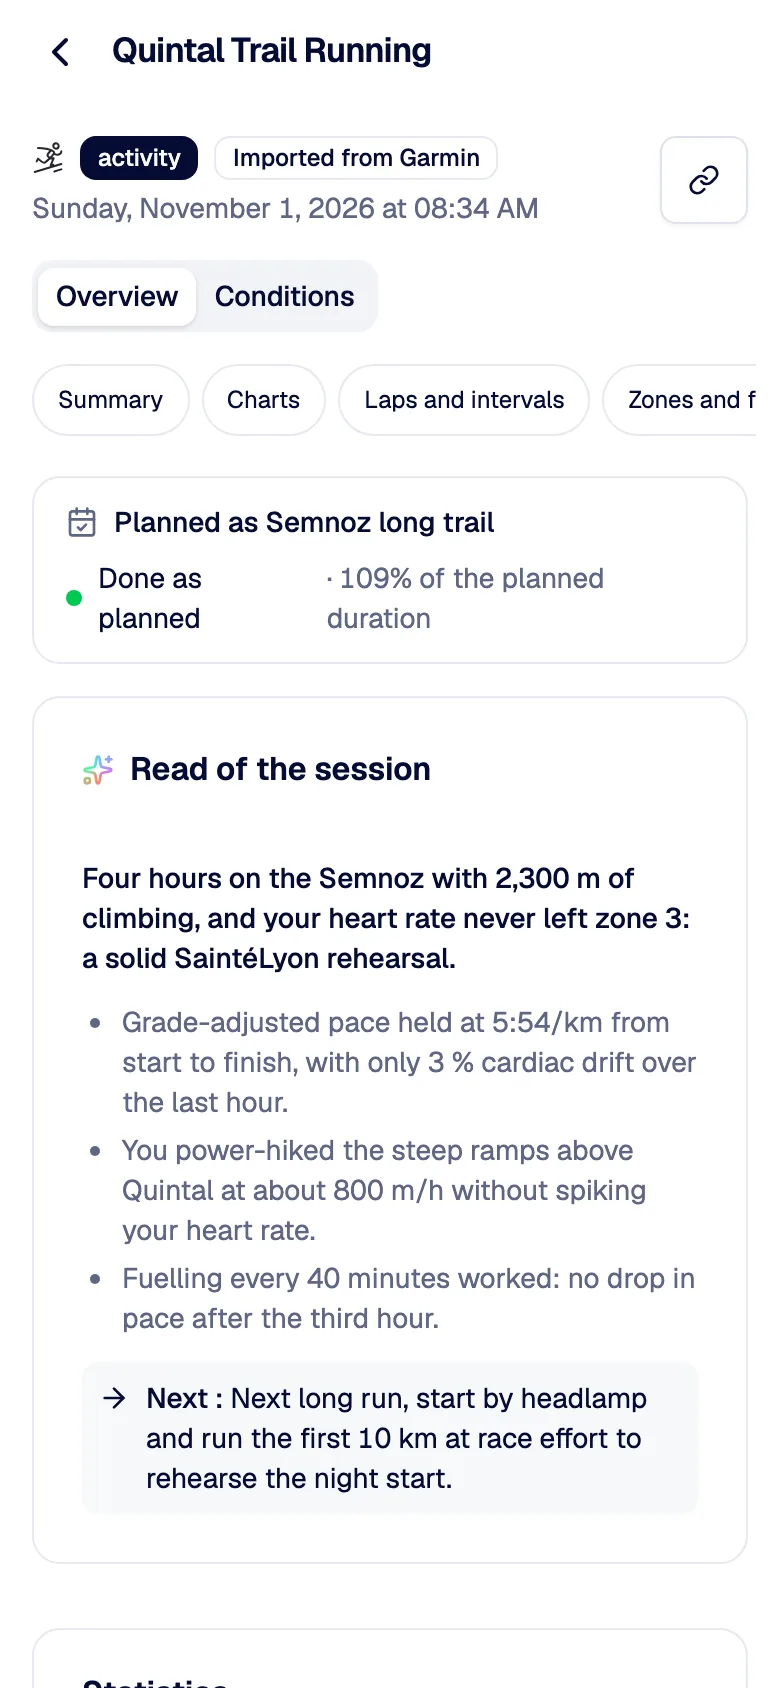
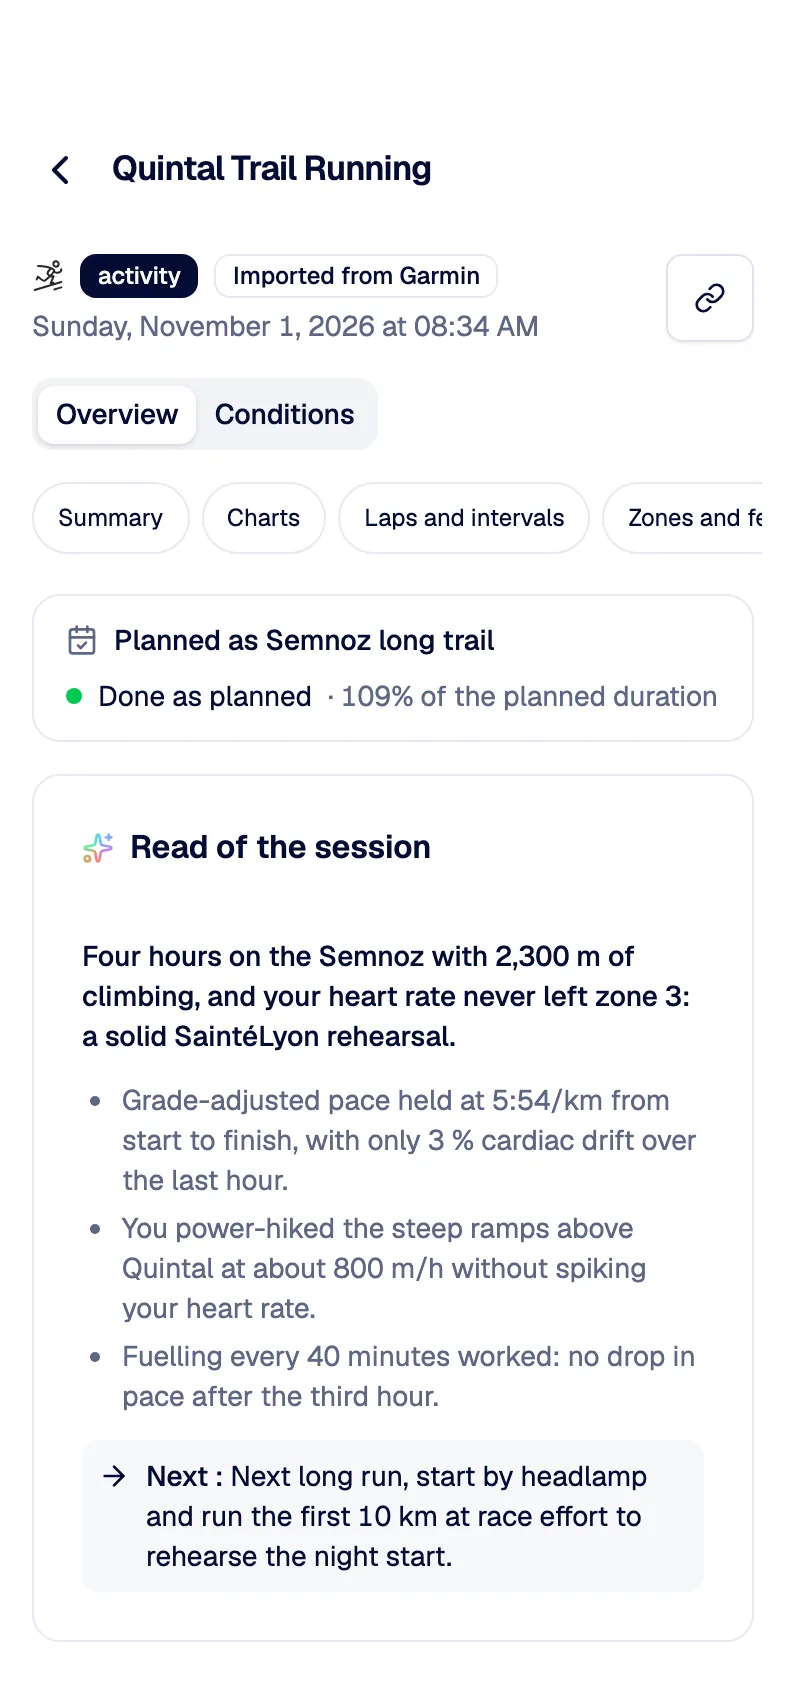
fix(website): frame phone screenshots like a real iPhone
The phone mockups cut the bottom corners of the screens and put the notch
over the app's top bar. Phone captures now include the app's safe areas,
and the frame keeps their exact proportions, with the Dynamic Island, a
status bar and the home indicator drawn over the empty insets. Sizes are
container units of the frame, so it holds at any width, and the pages no
longer force a crop on the images.

diff --git a/apps/website/src/components/site/visuals/screenshot.tsx b/apps/website/src/components/site/visuals/screenshot.tsx
@@ -45,36 +45,111 @@ export function Screenshot({
   );
 }
 
-/** A phone-shaped frame for the mobile screenshots (390 wide at 2x). */
+/**
+ * An iPhone 15 Pro around a phone screenshot. Captures are 393×852 with the
+ * app's safe areas applied (59 px top, 34 px bottom), so the status bar, the
+ * Dynamic Island and the home indicator drawn here sit over empty insets,
+ * never over content. Every size is a share of the width: the frame holds
+ * its proportions at any size.
+ */
 export function PhoneShot({
   src,
   alt,
   className,
   priority,
+  sizes = '320px',
 }: {
   src: StaticImageData | string;
   alt: string;
   className?: string;
   priority?: boolean;
+  sizes?: string;
 }) {
   return (
-    <figure
-      className={cn(
-        'relative rounded-[2.6rem] bg-ink p-[9px] shadow-[0_40px_80px_-30px_rgb(5_12_52/0.55),0_0_0_1px_rgb(255_255_255/0.08)_inset]',
-        className,
-      )}
-    >
-      <div className="overflow-hidden rounded-[2.05rem] bg-white">
-        <Image
-          src={src}
-          alt={alt}
-          priority={priority}
-          sizes="320px"
-          placeholder={typeof src === 'string' ? 'empty' : 'blur'}
-          className="block h-auto w-full"
-        />
+    // cqw resolves against the nearest container: the figure is that
+    // container, so only its children may size themselves in cqw
+    <figure className={cn('relative [container-type:inline-size]', className)}>
+      {/* Titanium edge, then the black bezel */}
+      <div className="rounded-[17cqw] bg-gradient-to-b from-[#3a3f55] via-[#1b1f33] to-[#3a3f55] p-[0.9cqw] shadow-[0_40px_80px_-30px_rgb(5_12_52/0.55)]">
+        <div className="rounded-[16.2cqw] bg-[#05060d] p-[3.6cqw]">
+          <div className="relative aspect-[393/852] overflow-hidden rounded-[12.6cqw] bg-white">
+            <Image
+              src={src}
+              alt={alt}
+              priority={priority}
+              sizes={sizes}
+              placeholder={typeof src === 'string' ? 'empty' : 'blur'}
+              className="absolute inset-0 h-full w-full object-cover object-top"
+            />
+            {/* Status bar, over the 59 px top inset */}
+            <div
+              aria-hidden
+              className="absolute inset-x-0 top-0 flex h-[6.93%] items-center justify-between bg-white/90 px-[8.5cqw] pt-[1.2cqw] text-[#050c34] backdrop-blur-sm"
+            >
+              <span className="w-[22cqw] text-center text-[4.3cqw] leading-none font-semibold tracking-tight">
+                9:41
+              </span>
+              <span className="flex w-[22cqw] items-center justify-center gap-[1.4cqw]">
+                <svg
+                  viewBox="0 0 18 12"
+                  className="h-[3cqw] w-auto"
+                  fill="currentColor"
+                >
+                  <rect x="0" y="8" width="3" height="4" rx="1" />
+                  <rect x="5" y="5.5" width="3" height="6.5" rx="1" />
+                  <rect x="10" y="3" width="3" height="9" rx="1" />
+                  <rect x="15" y="0" width="3" height="12" rx="1" />
+                </svg>
+                <svg
+                  viewBox="0 0 16 12"
+                  className="h-[3cqw] w-auto"
+                  fill="currentColor"
+                >
+                  <path d="M8 2.6c2.2 0 4.2.85 5.7 2.25l1.25-1.3A9.9 9.9 0 0 0 8 .8 9.9 9.9 0 0 0 1.05 3.55l1.25 1.3A8.1 8.1 0 0 1 8 2.6Zm0 3.6c1.2 0 2.3.45 3.15 1.2l1.25-1.3A6.4 6.4 0 0 0 8 4.4c-1.7 0-3.25.65-4.4 1.7l1.25 1.3A4.6 4.6 0 0 1 8 6.2Zm0 3.6c.45 0 .85.15 1.2.4L8 11.5 6.8 10.2c.35-.25.75-.4 1.2-.4Z" />
+                </svg>
+                <svg
+                  viewBox="0 0 27 13"
+                  className="h-[3.1cqw] w-auto"
+                  fill="none"
+                >
+                  <rect
+                    x="0.5"
+                    y="0.5"
+                    width="23"
+                    height="12"
+                    rx="3.5"
+                    stroke="currentColor"
+                    opacity="0.4"
+                  />
+                  <rect
+                    x="2"
+                    y="2"
+                    width="17"
+                    height="9"
+                    rx="2"
+                    fill="currentColor"
+                  />
+                  <path
+                    d="M25 4.5v4c.8-.3 1.3-1.1 1.3-2s-.5-1.7-1.3-2Z"
+                    fill="currentColor"
+                    opacity="0.4"
+                  />
+                </svg>
+              </span>
+            </div>
+            {/* Dynamic Island */}
+            <span
+              aria-hidden
+              className="absolute top-[1.29%] left-1/2 h-[4.34%] w-[32%] -translate-x-1/2 rounded-full bg-[#05060d]"
+            />
+            {/* Home indicator, inside the 34 px bottom inset */}
+            <span
+              aria-hidden
+              className="absolute bottom-[0.94%] left-1/2 h-[0.6%] w-[34%] -translate-x-1/2 rounded-full bg-[#050c34]/85"
+            />
+          </div>
+        </div>
       </div>
-      <span className="absolute top-[18px] left-1/2 h-[22px] w-[84px] -translate-x-1/2 rounded-full bg-ink" />
     </figure>
   );
 }

diff --git a/apps/website/src/app/[locale]/mobile/page.tsx b/apps/website/src/app/[locale]/mobile/page.tsx
@@ -208,18 +208,18 @@ export default async function MobilePage({ params }: Props) {
               <PhoneShot
                 src={shots.mobileCalendar}
                 alt={m.mobile_shot_alt_calendar()}
-                className="absolute top-12 left-0 w-[38%] -rotate-6 [&_img]:aspect-[9/19.5] [&_img]:object-cover [&_img]:object-top"
+                className="absolute top-12 left-0 w-[38%] -rotate-6"
               />
               <PhoneShot
                 src={shots.mobileHome}
                 alt={m.mobile_shot_alt_home()}
                 priority
-                className="absolute top-0 left-1/2 z-10 w-[44%] -translate-x-1/2 [&_img]:aspect-[9/19.5] [&_img]:object-cover [&_img]:object-top"
+                className="absolute top-0 left-1/2 z-10 w-[44%] -translate-x-1/2"
               />
               <PhoneShot
                 src={shots.mobileWorkout}
                 alt={m.mobile_shot_alt_workout()}
-                className="absolute top-12 right-0 w-[38%] rotate-6 [&_img]:aspect-[9/19.5] [&_img]:object-cover [&_img]:object-top"
+                className="absolute top-12 right-0 w-[38%] rotate-6"
               />
             </Reveal>
           </div>
@@ -294,7 +294,7 @@ export default async function MobilePage({ params }: Props) {
                   <PhoneShot
                     src={shot}
                     alt={alt}
-                    className="mx-auto w-full max-w-[13rem] [&_img]:aspect-[9/19.5] [&_img]:object-cover [&_img]:object-top"
+                    className="mx-auto w-full max-w-[13rem]"
                   />
                 </div>
                 <h3 className="mt-6 font-semibold">

diff --git a/apps/website/src/app/[locale]/features/page.tsx b/apps/website/src/app/[locale]/features/page.tsx
@@ -395,7 +395,7 @@ export default async function FeaturesPage({ params }: Props) {
               <PhoneShot
                 src={shots.mobileHome}
                 alt={m.features_hub_mobile_link()}
-                className="absolute right-4 -bottom-28 w-[34%] max-w-[10rem] rotate-6 sm:right-8 [&_img]:aspect-[9/19.5] [&_img]:object-cover [&_img]:object-top"
+                className="absolute right-4 -bottom-28 w-[34%] max-w-[10rem] rotate-6 sm:right-8"
               />
             </Reveal>
             <Reveal

diff --git a/apps/website/src/components/home/sections.tsx b/apps/website/src/components/home/sections.tsx
@@ -572,7 +572,7 @@ export function HomeMobile({ locale }: { locale: SupportedLocale }) {
               <ArrowUpRight className="size-4" />
             </Link>
           </Reveal>
-          <Reveal delay={0.1} className="relative mx-auto h-[22rem] w-[19rem]">
+          <Reveal delay={0.1} className="relative mx-auto h-[26rem] w-[19rem]">
             <PhoneShot
               src={shots.mobileCalendar}
               alt={m.home_mobile_title()}
